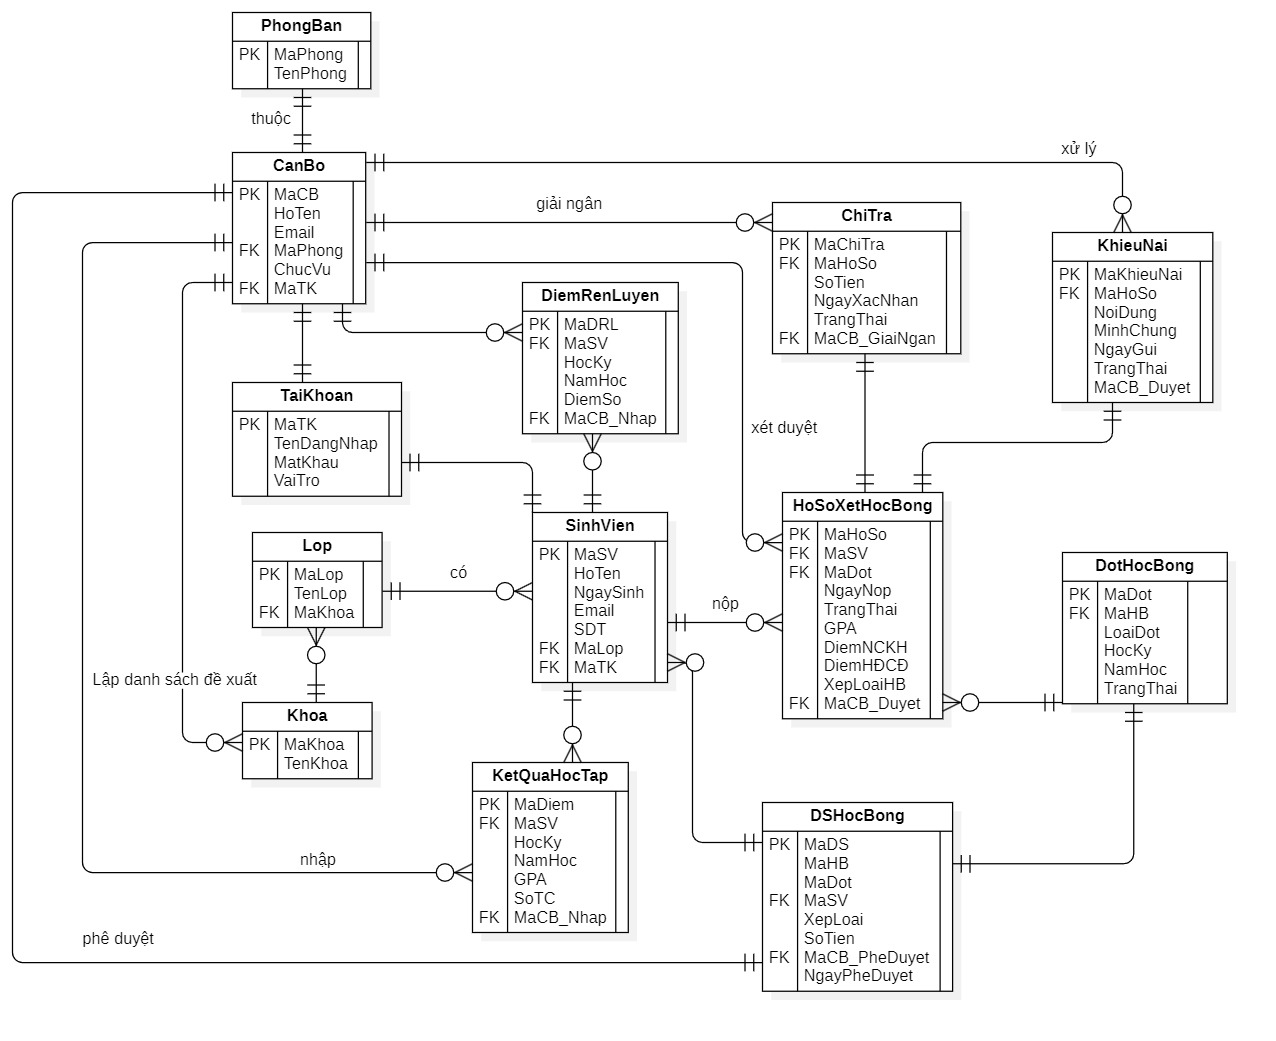
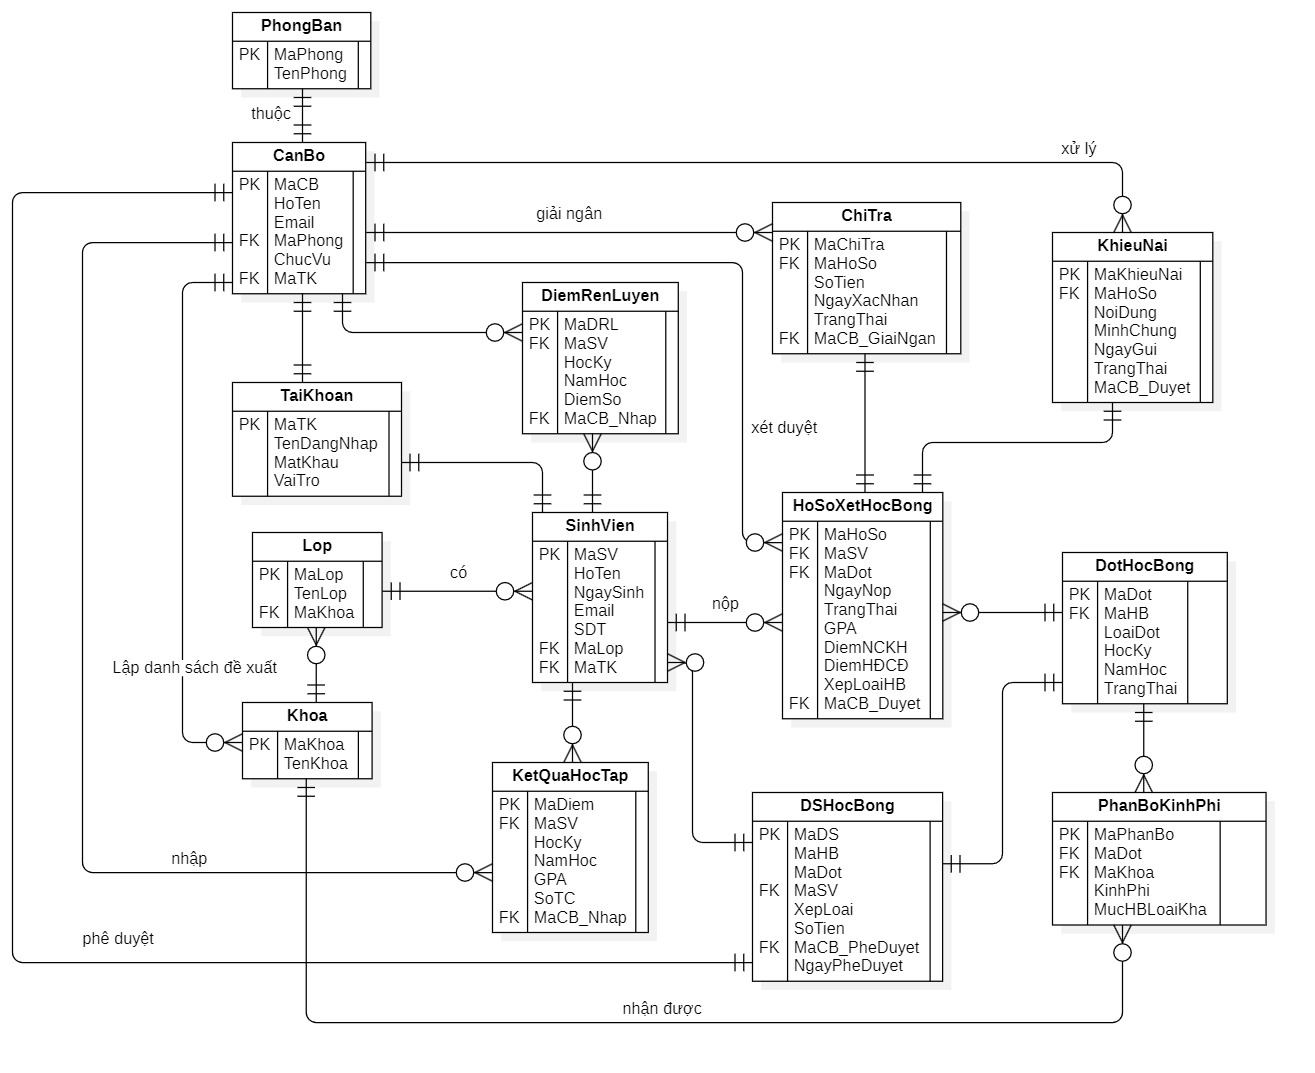
change .gitignore

diff --git a/viec-tuan-ni.md b/viec-tuan-ni.md
@@ -1,0 +1,50 @@
+# BẢNG PHÂN CÔNG NHIỆM VỤ BACKEND - CHẶNG 3 & 4 (CORE API)
+
+**Mục tiêu Sprint:** Hoàn thiện luồng xét duyệt học bổng tự động xuyên suốt từ bước nạp điểm đầu vào cho đến quyết định phê duyệt cuối cùng của Hiệu trưởng. Các tính năng phụ trợ như Khiếu nại sẽ được đưa vào Backlog để xử lý ở Phase sau.
+
+**Quy chuẩn bắt buộc (Toàn Team):**
+1. **Kiến trúc:** Tuân thủ chặt chẽ N-Tier (`Controller` -> `Service` -> `Repository`). Controller tuyệt đối không chứa Business Logic.
+2. **Response format:** Mọi API trả về bắt buộc phải bọc trong class `BaseResponse<T>`.
+3. **Phân quyền:** Nhớ gắn Attribute `[Authorize(Roles="...")]` chuẩn xác cho từng API.
+
+---
+
+**Gói công việc: Module Xét duyệt cấp Khoa (Business Logic Core)**
+**Nhánh làm việc (Branch):** `feature/khoa-approval`
+*Nhiệm vụ chính: Xử lý thuật toán - Xếp hạng ưu tiên và phân bổ danh sách theo ngân sách cấp Khoa.*
+
+* **Task 2.1: Truy xuất danh sách chờ duyệt**
+  * **API:** `GET /api/khoa/danhsach`
+  * **Tác nhân:** Khoa.
+  * **Logic:** Lấy danh sách `HoSoXetHocBong` đang ở trạng thái `ChoXet` thuộc quyền quản lý của Khoa đang đăng nhập (nhớ join bảng để hiển thị tên, GPA, ĐRL).
+* **Task 2.2: Thuật toán Xếp hạng & Phân bổ (Core)**
+  * **API:** `POST /api/khoa/xephang`
+  * **Tác nhân:** Khoa.
+  * **Logic:** Viết thuật toán sắp xếp danh sách theo thứ tự ưu tiên: Ưu tiên điểm GPA từ cao xuống thấp; trường hợp GPA bằng nhau thì dùng Điểm Rèn luyện (ĐRL) để xếp hạng. Sau đó, áp dụng thuật toán trừ lùi để cắt danh sách dựa trên ngân sách Khoa được cấp.
+* **Task 2.3: Chốt danh sách đề xuất**
+  * **API:** `PUT /api/khoa/dexuat`
+  * **Tác nhân:** Khoa.
+  * **Logic:** Đổi trạng thái các hồ sơ đã lọt top ở Task 2.2 sang `KhoaDeXuat` và chuyển tiếp lên cấp Trường.
+
+---
+
+**Gói công việc: Module Hội đồng, Phê duyệt & Tra cứu (Aggregation & Finalization)**
+**Nhánh làm việc (Branch):** `feature/final-decision`
+*Nhiệm vụ chính: Xử lý luồng gộp dữ liệu toàn trường, chốt hạ quyết định từ Ban Giám hiệu và giao diện hiển thị cho sinh viên.*
+
+* **Task 3.1: Tổng hợp dữ liệu toàn trường**
+  * **API:** `GET /api/ctsv/tonghop`
+  * **Tác nhân:** Phòng CTSV / Hội đồng.
+  * **Logic:** Aggregate (gom) toàn bộ hồ sơ đang có trạng thái `KhoaDeXuat` từ tất cả các Khoa lại thành một bảng tổng sắp thống nhất.
+* **Task 3.2: Hội đồng xét chọn**
+  * **API:** `PUT /api/hoidong/xetchon`
+  * **Tác nhân:** Hội đồng.
+  * **Logic:** Cho phép xem hồ sơ sinh viên trong danh sách, điều chỉnh lại trạng thái hồ sơ (có nằm trong danh sách dự kiến hay không).Cập nhật trạng thái các hồ sơ được Hội đồng duyệt qua thành `DanhSachDuKien` để chuẩn bị công bố.
+* **Task 3.3: Sinh viên tra cứu (Read-only)** (tương lai có thêm khiếu nại vô đây, ai chăm thì mần trước đi tại chưa coi khúc này)
+  * **API:** `GET /api/sinhvien/tracuu`
+  * **Tác nhân:** Sinh viên.
+  * **Logic:** Dựa vào Token JWT, lấy `MaSV` hiện tại và trả về toàn bộ tiến trình hồ sơ của sinh viên đó (Đang ở trạng thái nào? Có lọt vào danh sách dự kiến không?).
+* **Task 3.4: Hiệu trưởng phê duyệt (Final Trigger)**
+  * **API:** `PUT /api/hieutruong/pheduyet`
+  * **Tác nhân:** Hiệu trưởng.
+  * **Logic:** Hành động chốt sổ cuối cùng. Chuyển trạng thái đợt học bổng sang `ChinhThuc`. Kích hoạt Trigger/Service copy toàn bộ sinh viên đạt vào bảng `DSHOCBONG` (Snapshot) làm căn cứ bất biến để giải ngân.